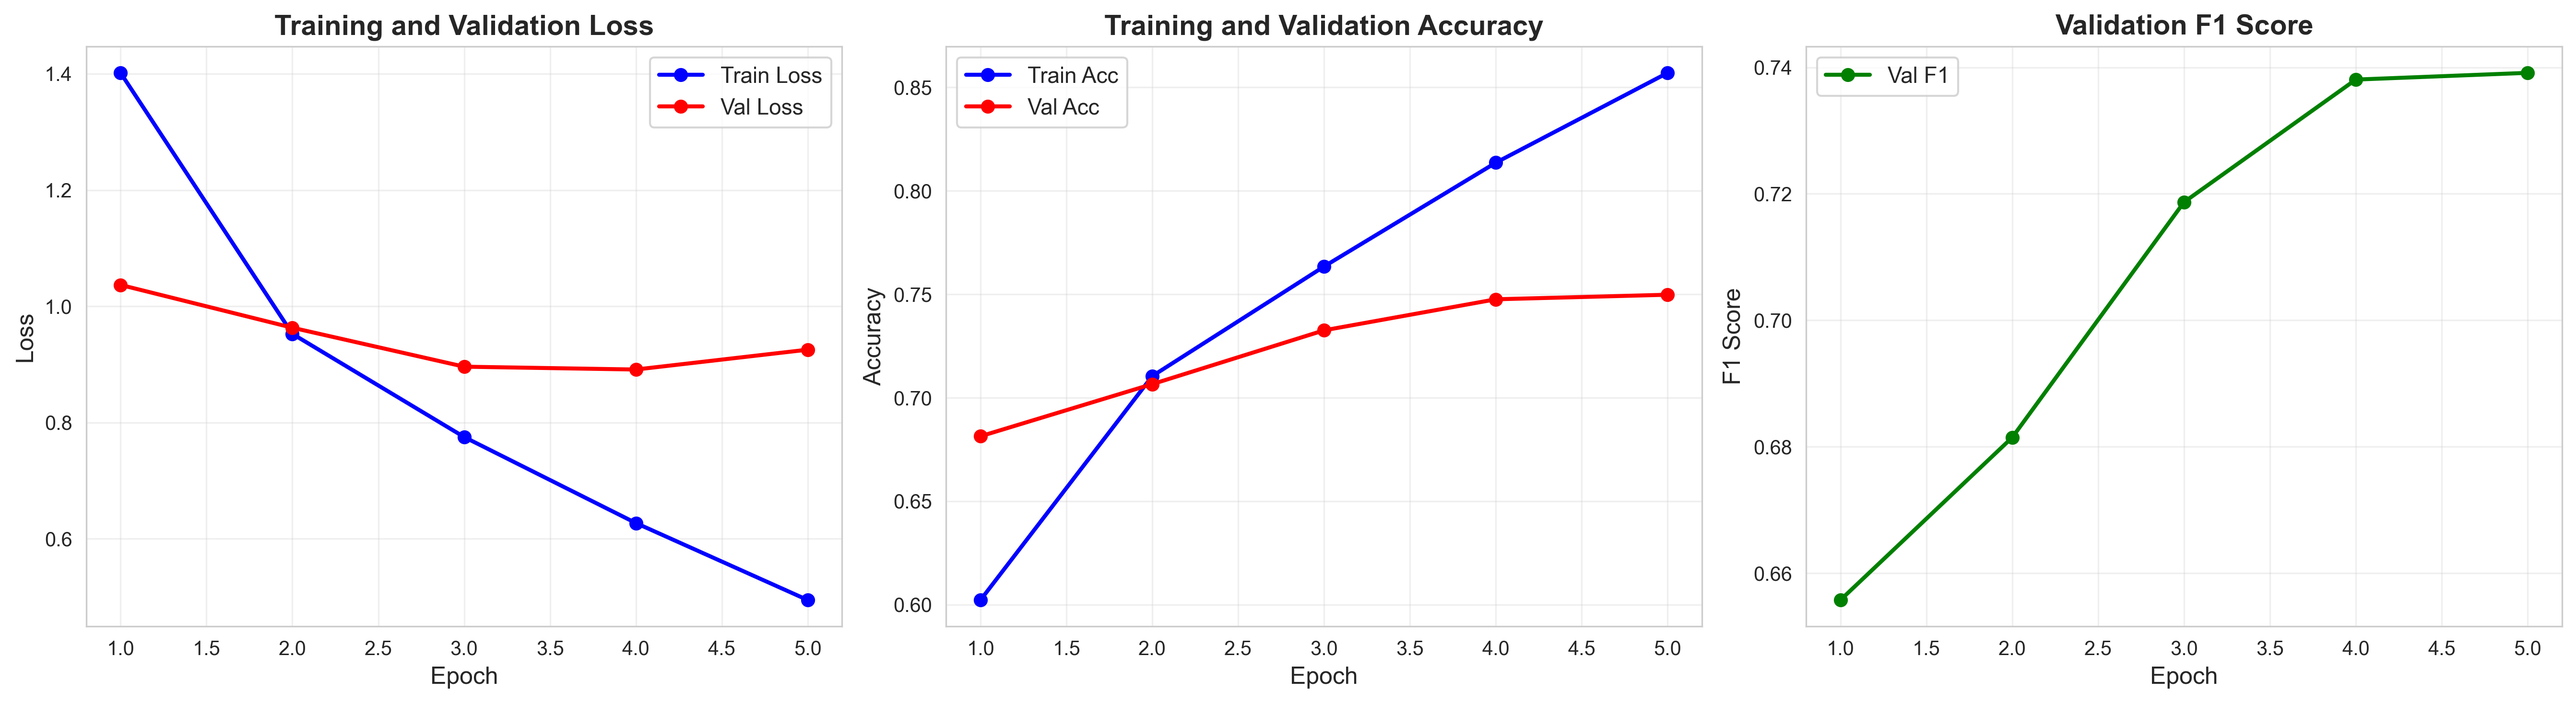
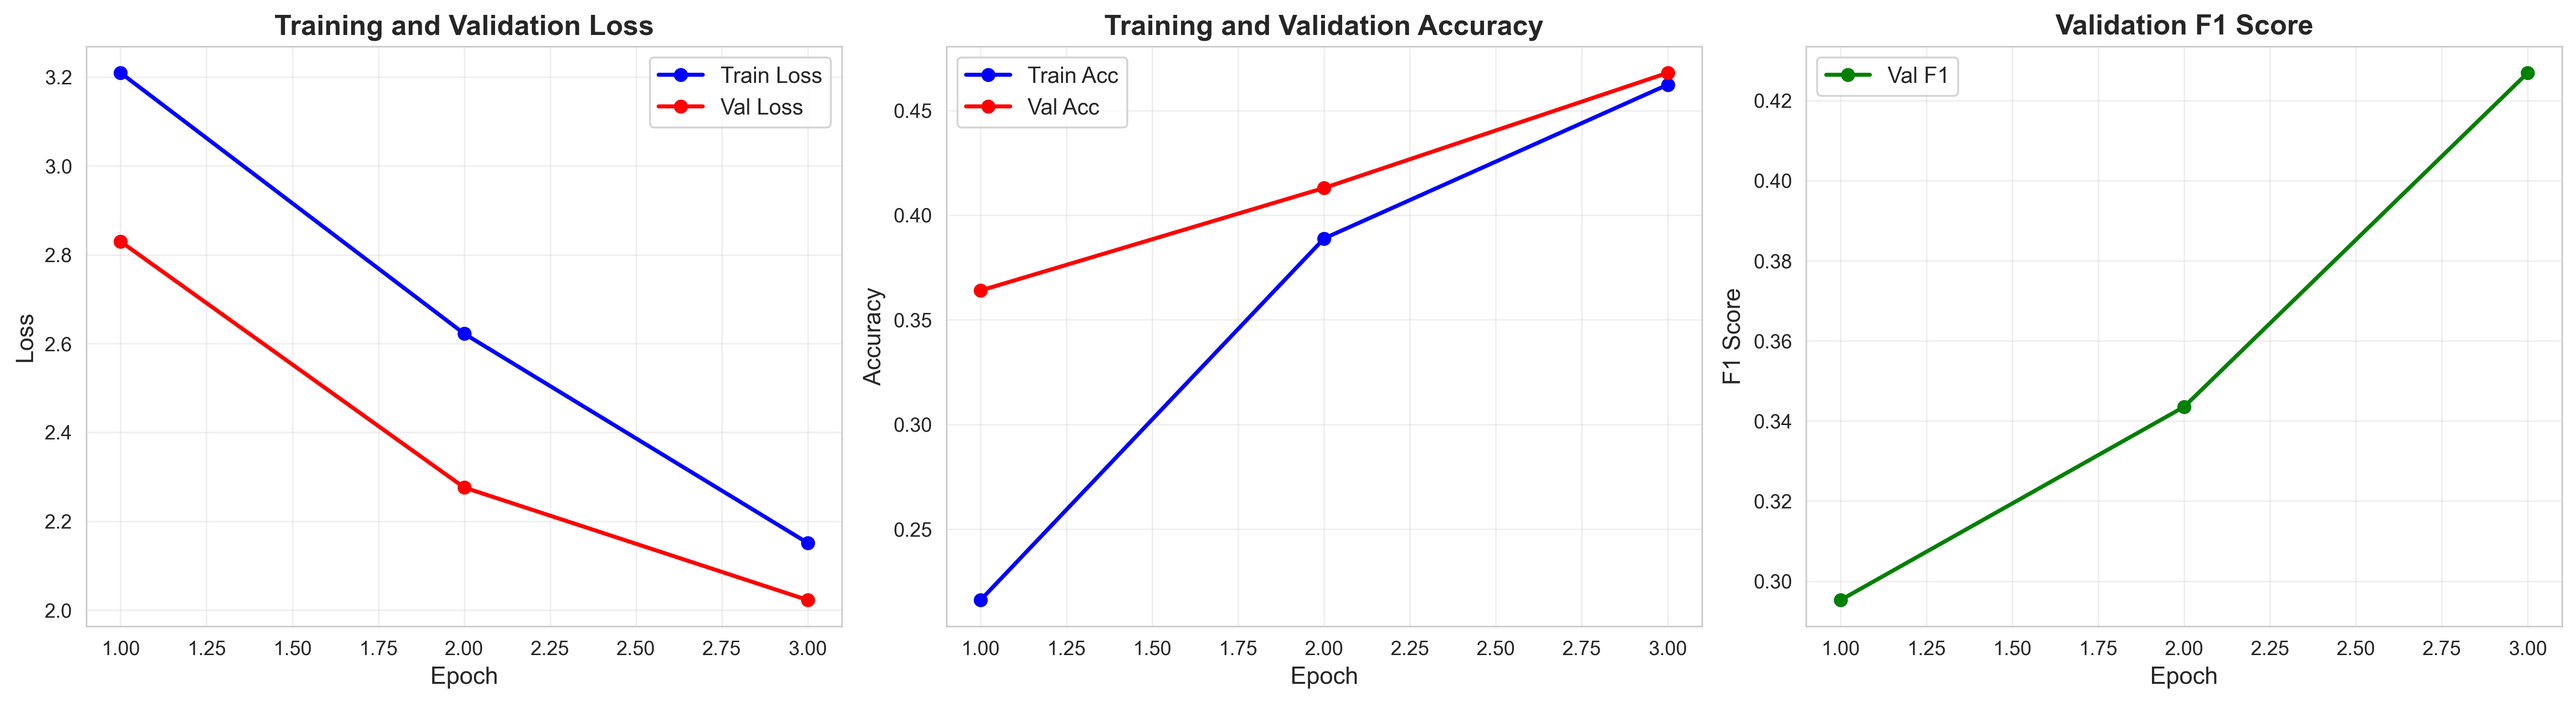
Updated to work for multimodal

diff --git a/main.py b/main.py
@@ -15,6 +15,7 @@ import numpy as np
 import os
 import argparse
 from pathlib import Path
+from sklearn.utils.class_weight import compute_class_weight
 
 # Import custom modules
 # Import base modules
@@ -24,6 +25,9 @@ from models.text_encoder import TextClassifier
 from training.train_pytorch import Trainer, evaluate_model
 from utils.metrics import calculate_metrics, print_metrics, plot_confusion_matrix
 from utils.visualization import plot_training_history, plot_active_learning_progress
+from data_pipeline.image_preprocess import ImagePreprocessor
+from models.image_encoder import ImageClassifier
+from models.multimodal_classifier import MultimodalClassifier
 
 # Conditional imports based on model type (imported later in main function)
 # from data_pipeline.image_preprocess import ImagePreprocessor
@@ -57,7 +61,7 @@ def parse_args():
     # Training arguments
     parser.add_argument('--batch_size', type=int, default=32)
     parser.add_argument('--num_epochs', type=int, default=10)
-    parser.add_argument('--learning_rate', type=float, default=2e-5)
+    parser.add_argument('--learning_rate', type=float, default=2e-5) # 2e-5
     parser.add_argument('--patience', type=int, default=3)
     
     # Active learning arguments
@@ -70,6 +74,7 @@ def parse_args():
     # Other
     parser.add_argument('--run_baseline', action='store_true', help='Run baseline ML models')
     parser.add_argument('--seed', type=int, default=42)
+    parser.add_argument('--exp_name', type=str, default='', help='Experiment name suffix for logs and outputs')
     
     return parser.parse_args()
 
@@ -134,19 +139,20 @@ def main():
     
     # Image preprocessing (if using images)
     image_prep = None
-    if args.model_type in ['image', 'multimodal'] and args.image_dir:
+    if args.model_type in ['image', 'multimodal']:
         from data_pipeline.image_preprocess import ImagePreprocessor
-        
-        print("\nProcessing images...")
         image_prep = ImagePreprocessor(image_size=224)
-        train_df = image_prep.create_image_paths_column(train_df, args.image_dir)
-        val_df = image_prep.create_image_paths_column(val_df, args.image_dir)
-        test_df = image_prep.create_image_paths_column(test_df, args.image_dir)
-        
-        # Verify images
-        train_df = image_prep.verify_images(train_df, args.image_dir)
-        val_df = image_prep.verify_images(val_df, args.image_dir)
-        test_df = image_prep.verify_images(test_df, args.image_dir)
+        if args.image_dir:
+            print("\nProcessing images...")
+            image_prep = ImagePreprocessor(image_size=224)
+            train_df = image_prep.create_image_paths_column(train_df, args.image_dir)
+            val_df = image_prep.create_image_paths_column(val_df, args.image_dir)
+            test_df = image_prep.create_image_paths_column(test_df, args.image_dir)
+            
+            # Verify images
+            train_df = image_prep.verify_images(train_df, args.image_dir)
+            val_df = image_prep.verify_images(val_df, args.image_dir)
+            test_df = image_prep.verify_images(test_df, args.image_dir)
     
     num_classes = text_prep.num_classes
     print(f"\nNumber of classes: {num_classes}")
@@ -212,19 +218,34 @@ def main():
     print(f"Model created with {sum(p.numel() for p in model.parameters()):,} parameters")
     
     # Train model
+    # Compute class weights from training labels to handle imbalance
+    try:
+        train_labels = train_df['label'].to_numpy()
+        classes_present = np.unique(train_labels)
+        cw = compute_class_weight('balanced', classes=classes_present, y=train_labels)
+        weights = np.ones(text_prep.num_classes, dtype=np.float32)
+        for i, c in enumerate(classes_present):
+            weights[int(c)] = float(cw[i])
+    except Exception:
+        weights = None
+
     trainer = Trainer(
         model, train_loader, val_loader,
         device=device,
         learning_rate=args.learning_rate,
         num_epochs=args.num_epochs,
         patience=args.patience,
-        log_dir=f'logs/{args.model_type}_experiment'
+        log_dir=(f'logs/{args.model_type}_{args.exp_name}' if args.exp_name else f'logs/{args.model_type}_experiment'),
+        class_weights=weights
     )
     
     history = trainer.train()
     
     # Plot training history
-    plot_training_history(history, save_path=f'figures/{args.model_type}_training_history.png')
+    history_fig = f'figures/{args.model_type}_training_history'
+    history_fig += f'_{args.exp_name}' if args.exp_name else ''
+    history_fig += '.png'
+    plot_training_history(history, save_path=history_fig)
     
     # ========== STEP 4: Evaluation ==========
     print("\n" + "="*70)
@@ -245,16 +266,22 @@ def main():
     print_metrics(metrics, f"{args.model_type.upper()} Model - Test Set")
     
     # Plot confusion matrix
+    cm_path = f'figures/{args.model_type}_confusion_matrix'
+    cm_path += f'_{args.exp_name}' if args.exp_name else ''
+    cm_path += '.png'
     plot_confusion_matrix(
         test_results['labels'],
         test_results['predictions'],
         normalize=True,
-        save_path=f'figures/{args.model_type}_confusion_matrix.png'
+        save_path=cm_path
     )
     
     # Save model
-    torch.save(model.state_dict(), f'models_saved/{args.model_type}_final.pt')
-    print(f"\nModel saved to models_saved/{args.model_type}_final.pt")
+    model_path = f'models_saved/{args.model_type}_final'
+    model_path += f'_{args.exp_name}' if args.exp_name else ''
+    model_path += '.pt'
+    torch.save(model.state_dict(), model_path)
+    print(f"\nModel saved to {model_path}")
     
     # ========== STEP 5: Active Learning (Optional) ==========
     if args.use_active_learning:
@@ -303,7 +330,8 @@ def main():
     print("  - figures/")
     print("  - logs/ (TensorBoard)")
     print("\nTo view TensorBoard logs, run:")
-    print(f"  tensorboard --logdir=logs/{args.model_type}_experiment")
+    tb_dir = f'logs/{args.model_type}_{args.exp_name}' if args.exp_name else f'logs/{args.model_type}_experiment'
+    print(f"  tensorboard --logdir={tb_dir}")
 
 if __name__ == "__main__":
     main()

diff --git a/check_image.py b/check_image.py
@@ -1,0 +1,56 @@
+import os
+import pandas as pd
+
+CSV_PATH = "data/amazon_electronics_processed.csv"
+IMAGE_COL = "image_path"
+
+def normalize_path(p):
+    if pd.isna(p):
+        return None
+
+    p = str(p).replace("\\", "/")
+
+    # Fix duplicated prefixes
+    if "data/images/data/images" in p:
+        p = p.replace("data/images/data/images", "data/images")
+
+    return p
+
+def main():
+    print("🔍 Loading CSV...")
+    df = pd.read_csv(CSV_PATH)
+    print(f"✓ Loaded {len(df)} rows")
+
+    missing_path = 0
+    missing_file = 0
+    valid = 0
+
+    print("\n🧪 Checking image associations...")
+
+    for _, row in df.iterrows():
+        raw_path = row.get(IMAGE_COL)
+        path = normalize_path(raw_path)
+
+        if path is None:
+            missing_path += 1
+        elif not os.path.exists(path):
+            missing_file += 1
+        else:
+            valid += 1
+
+    print("\n📊 IMAGE ALIGNMENT REPORT")
+    print("-------------------------")
+    print(f"Total rows:         {len(df)}")
+    print(f"Missing image path: {missing_path}")
+    print(f"Missing image file: {missing_file}")
+    print(f"Valid images:       {valid}")
+
+    if valid == 0:
+        print("\n❌ No valid images found — image download likely failed.")
+    elif valid < len(df):
+        print("\n⚠ Dataset has partial image coverage.")
+    else:
+        print("\n✅ All rows have valid images. Multimodal is safe.")
+
+if __name__ == "__main__":
+    main()

diff --git a/data_pipeline/image_preprocess.py b/data_pipeline/image_preprocess.py
@@ -58,6 +58,22 @@ class ImagePreprocessor:
         Returns:
             PIL Image or None if invalid
         """
+        # Guard against missing / NaN image paths
+        try:
+            import pandas as _pd
+        except Exception:
+            _pd = None
+
+        if image_path is None:
+            return None
+
+        if _pd is not None and _pd.isna(image_path):
+            return None
+
+        if isinstance(image_path, float):
+            # float values (e.g., nan) are invalid paths
+            return None
+
         try:
             img = Image.open(image_path).convert('RGB')
             return img
@@ -76,6 +92,7 @@ class ImagePreprocessor:
         Returns:
             Transformed image tensor or None
         """
+        # Load image safely; load_image returns None for invalid/missing paths
         img = self.load_image(image_path)
         if img is None:
             return None
@@ -102,6 +119,15 @@ class ImagePreprocessor:
 
         for idx, row in tqdm(df.iterrows(), total=len(df)):
             image_id = row[image_column]
+            # Skip missing image ids
+            try:
+                import pandas as _pd
+            except Exception:
+                _pd = None
+
+            if image_id is None or (_pd is not None and _pd.isna(image_id)):
+                continue
+
             image_path = os.path.join(image_dir, f"{image_id}{ext}")
 
             if os.path.exists(image_path):

diff --git a/training/train_pytorch.py b/training/train_pytorch.py
@@ -15,7 +15,7 @@ class Trainer:
     def __init__(self, model, train_loader, val_loader, 
                  device='cuda', learning_rate=2e-5,
                  num_epochs=10, patience=3,
-                 log_dir='runs/experiment'):
+                 log_dir='runs/experiment', class_weights=None):
         """
         Args:
             model: PyTorch model to train
@@ -34,8 +34,15 @@ class Trainer:
         self.num_epochs = num_epochs
         self.patience = patience
         
-        # Loss and optimizer
-        self.criterion = nn.CrossEntropyLoss()
+        # Loss (optionally with class weights) and optimizer
+        if class_weights is not None:
+            try:
+                weight_tensor = torch.tensor(class_weights, dtype=torch.float).to(device)
+            except Exception:
+                weight_tensor = torch.tensor(class_weights, dtype=torch.float)
+            self.criterion = nn.CrossEntropyLoss(weight=weight_tensor)
+        else:
+            self.criterion = nn.CrossEntropyLoss()
         self.optimizer = optim.AdamW(
             model.parameters(),
             lr=learning_rate,

diff --git a/models/multimodal_classifier.py b/models/multimodal_classifier.py
@@ -1,7 +1,7 @@
 import torch
 import torch.nn as nn
-from text_encoder import TextEncoder
-from image_encoder import ImageEncoder
+from .text_encoder import TextEncoder
+from .image_encoder import ImageEncoder
 
 class MultimodalClassifier(nn.Module):
     """
